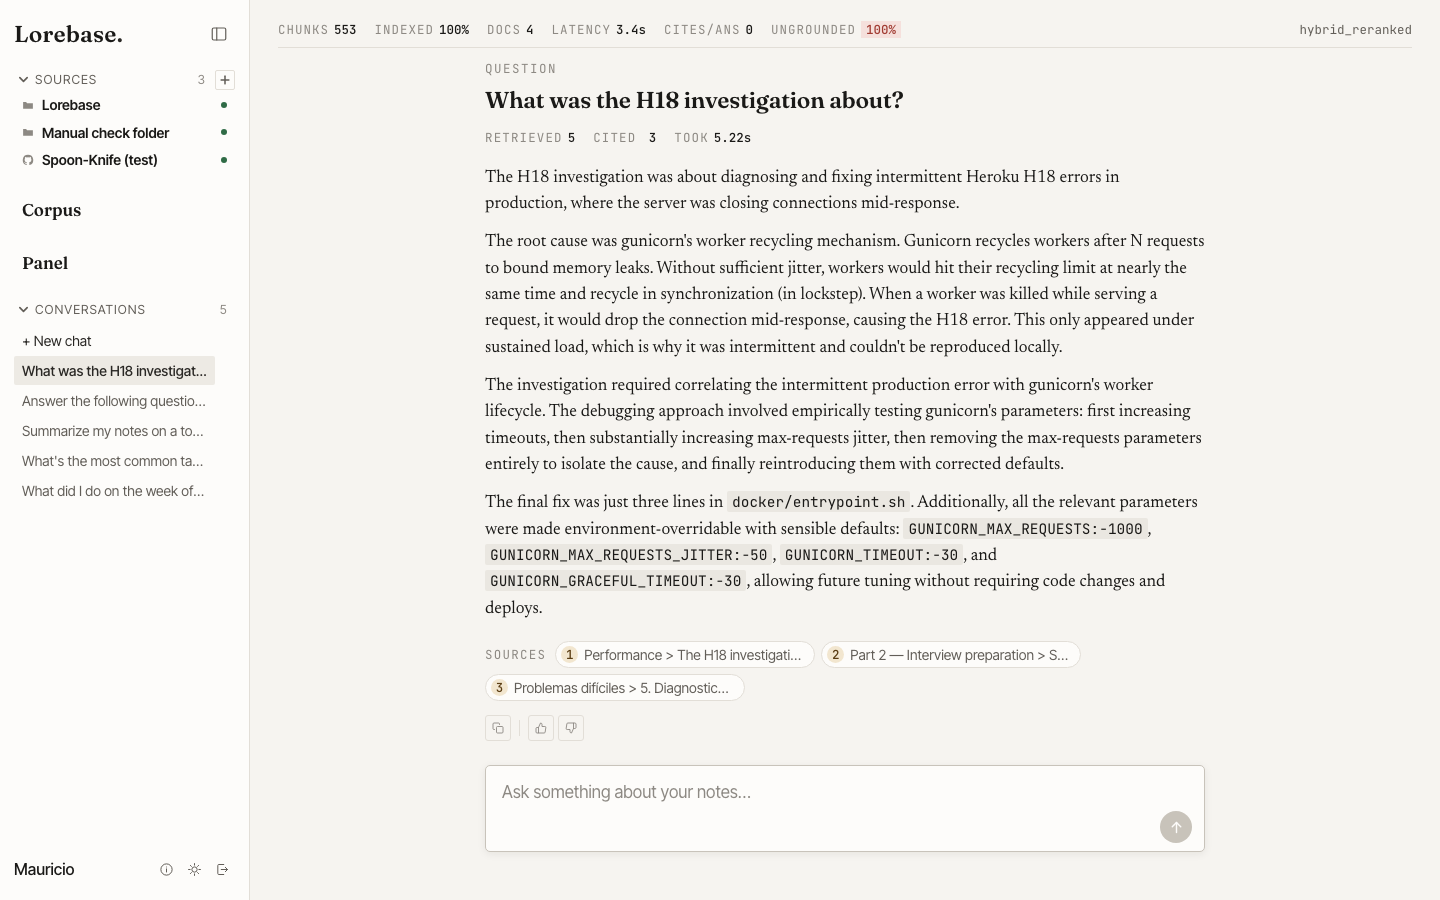
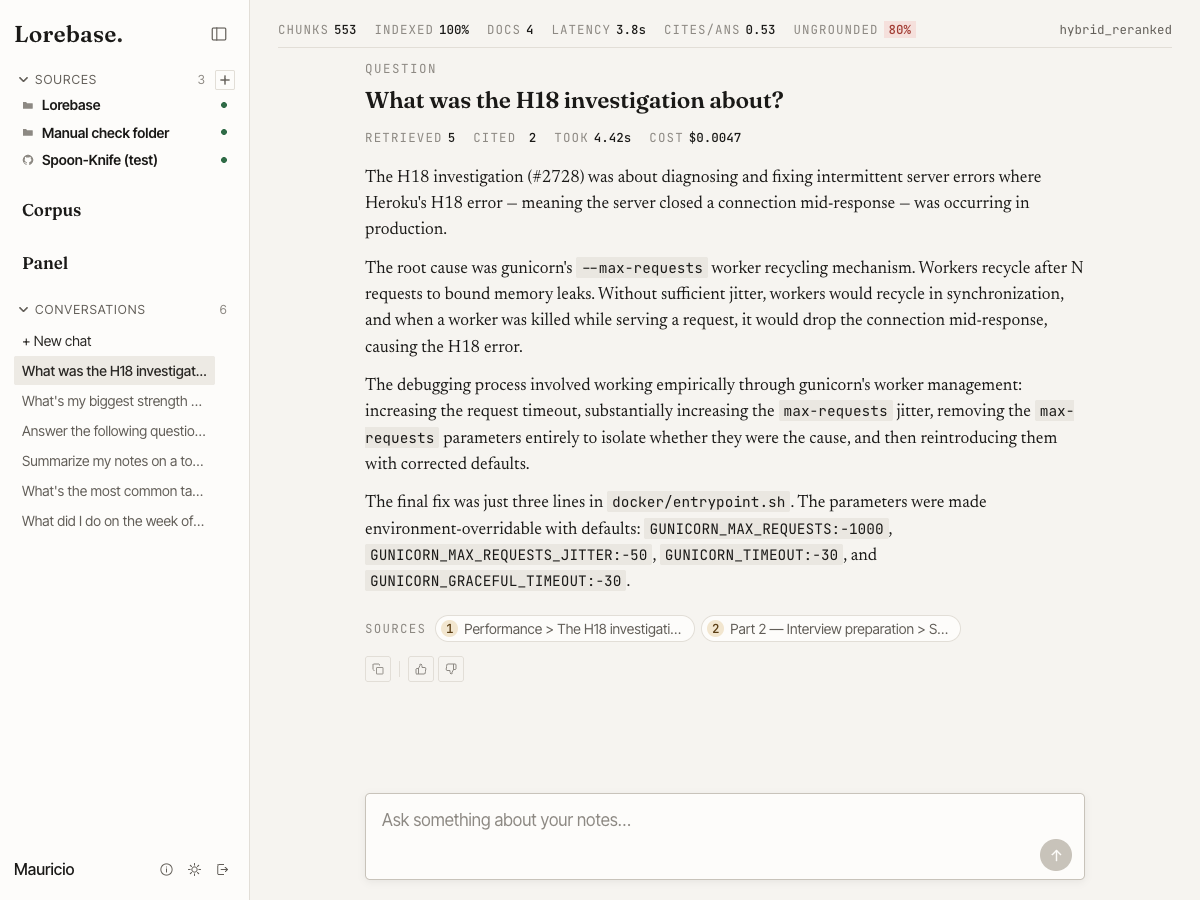
Polish the README: fix stale links, align file structure, add standard sections

diff --git a/README.md b/README.md
@@ -1,5 +1,7 @@
 # Lorebase
 
+[![CI](https://github.com/murraco/lorebase/actions/workflows/ci.yml/badge.svg)](https://github.com/murraco/lorebase/actions/workflows/ci.yml)
+
 Self-hosted RAG for your own notes, PDFs, and GitHub repos — with citations
 you can verify. Ask a question in plain English (or Spanish) and get an
 answer that points back to the exact file and line it came from.
@@ -190,27 +192,27 @@ for exactly that kind of multi-hop question, not deleted.
 ```
 lorebase/
 │
-├── backend/                  * Django project, managed with uv
-│   ├── config/                 * settings/, urls, celery, asgi/wsgi, logging
-│   ├── core/                   * User, Workspace, Membership, ApiKey, rate limiting
-│   ├── sources/                 * Source, Document, connectors/ (local folder, GitHub)
-│   ├── ingestion/                 * parsers/, chunking/, pipeline, Celery tasks
-│   ├── rag/                        * embeddings/, retrieval/, llm/, chat/, evaluation/
-│   ├── analytics/                   * Feedback, dashboard metrics
-│   ├── mcp_server/                   * MCP tools: search_knowledge, get_document, list_sources
+├── backend/           * Django project, managed with uv
+│   ├── config/        * settings/, urls, celery, asgi/wsgi, logging
+│   ├── core/          * User, Workspace, Membership, ApiKey, rate limiting
+│   ├── sources/       * Source, Document, connectors/ (local folder, GitHub)
+│   ├── ingestion/     * parsers/, chunking/, pipeline, Celery tasks
+│   ├── rag/           * embeddings/, retrieval/, llm/, chat/, evaluation/
+│   ├── analytics/     * Feedback, dashboard metrics
+│   ├── mcp_server/    * MCP tools: search_knowledge, get_document, list_sources
 │   └── tests/
 │
-├── frontend/                 * Angular workspace (standalone components + signals)
+├── frontend/          * Angular workspace (standalone components + signals)
 │   └── src/app/
-│       ├── core/                * services: API client, auth, sources, chat, conversations
-│       └── features/             * pages: chat, corpus, panel, login, shell
+│       ├── core/      * services: API client, auth, sources, chat, conversations
+│       └── features/  * pages: chat, corpus, panel, login, shell
 │
-├── infra/                    * docker-compose.yml / .prod.yml, .env.example, backup/restore scripts
+├── infra/             * docker-compose.yml / .prod.yml, .env.example, backup/restore scripts
 │
-├── docs/                     * roadmap.md, ADRs, MCP setup, screenshots
+├── docs/              * roadmap.md, ADRs, MCP setup, screenshots
 │
-├── LICENSE                   * MIT License
-└── README.md                 * This file
+├── LICENSE            * MIT License
+└── README.md          * This file
 ```
 
 ## Getting started (development)
@@ -292,11 +294,24 @@ COMPOSE_FILE=docker-compose.prod.yml ENV_FILE=.env.prod infra/scripts/restore.sh
   reasoning behind every non-obvious choice, stage by stage.
 - [`docs/mcp-server.md`](docs/mcp-server.md) — setting up and using the MCP
   server.
-- [`docs/learning-notes.md`](docs/learning-notes.md) — working notes on
-  RAGAS, direct vs. agentic retrieval, and MCP, pinned during the build for
-  an eventual write-up.
+- [`docs/applied-ai-interview-prep.md`](docs/applied-ai-interview-prep.md) —
+  a consolidated study guide covering every RAG/LLM concept the project
+  touches, written for interview prep.
 - [`docs/adr/`](docs/adr) — architecture decision records.
+
+## Contribution
+
+- Report issues
+- Open pull request with improvements
+- Spread the word
+- Reach out to me directly at <mauriurraco@gmail.com>
 
 ## License
 
-MIT — see [LICENSE](LICENSE).
+Released under the [MIT License](LICENSE).
+
+## Support
+
+If this project helped you, consider buying me a coffee ☕
+
+[![ko-fi](https://ko-fi.com/img/githubbutton_sm.svg)](https://ko-fi.com/murraco)
